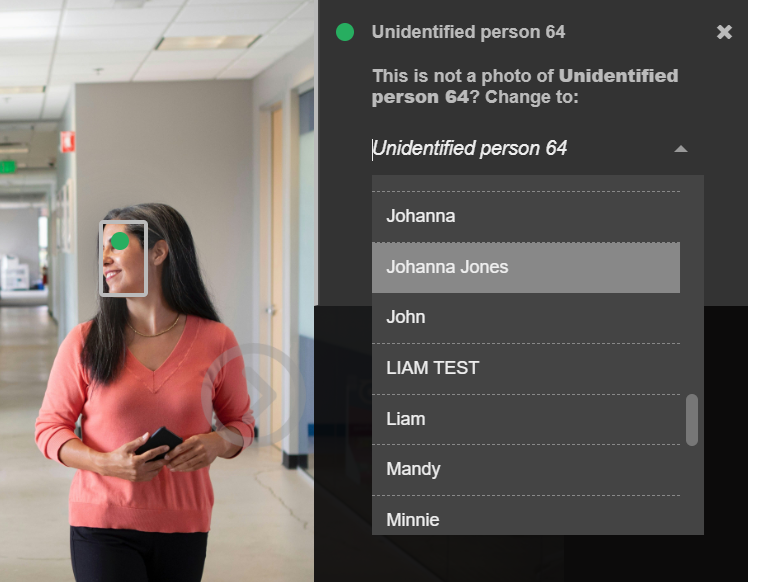
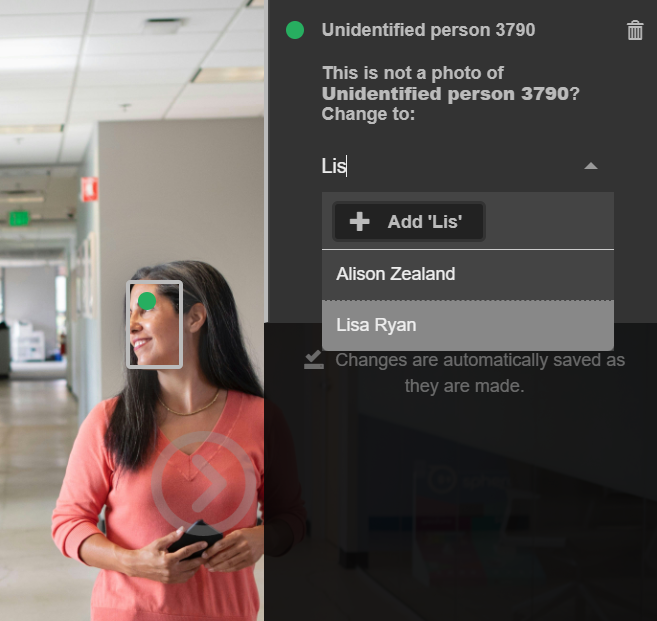
FR page improvements.

diff --git a/AI/facial-recognition.md b/AI/facial-recognition.md
@@ -13,6 +13,7 @@ nav_order: 20
 Starting with facial recognition in DBGallery couldn't be easier!  Start by uploading images with faces.  You'll then name each unique face just once to have it assigned across the collection and on subsequent uploads.  
 
 **How that works**
+
 Each unique face will be assigned default names such as 'Unidentified Person 1' or 'Unidentified Person 63', and so on.  When there are multiple faces of the same person, there may be many images with 'Unidentified Person 63' listed, for example.  Rename that one name to something real, like 'Johanna Jones', and all 'Unidentified Person 63' will be assigned to that name.  
 
 Any subsequent uploads of that person will be named 'Johanna Jones'.  In the search areas of the main gallery view, that name can immediately be searched for.
@@ -37,6 +38,9 @@ Press Close to see the result of 'Unidentified Person 63' having been renamed in
 
 Repeat Step 1 & 2 for all the names of the 'Unidentified Person" names.  In most cases, this needs to be done only once per person.  
 
+## During new uploads
+When new photos are added which have already names faces, they will automatically be tagged with their name.
+
 ## When the AI doesn't detect a known face
 There may be times when the AI doesn't recognize that person in subsequent uploads, due to lighting conditions, blurry photos, or the angle of the face.  When that happens, click on the face and select that name from the existing list of names. As this is done the AI will learn to recognise the person more accurately.
 <p style="margin-left: 5%;"><img style="border: 1px solid grey;" width="60%" src="/assets/Faces Dropdown List.png" alt="Faces Dropdown List"/></p>
@@ -50,13 +54,24 @@ To see the names of people when viewing a photo, roll the mouse cursor over the 
 ## Renaming a Person
 Rename a person by simply selecting the new name from the names dropdown in the Person tab, or by entering a completely new name for them in the Person tab.  This will rename the person in all photos.  When entering a completely new name, press the “Add” button and it will be added to the system, with the old name deleted from the system.
 
+Here Johanna Jones is being renamed to Carrissa King:
+<p style="margin-left: 5%;"><img style="border: 1px solid grey;" width="90%" src="/assets/Faces Rename a Person.png" alt="Facial Recognition: Renaming a person."/></p>
+
+
+## Naming a face for a single photo
+There may be times when a face needs to be named or renamed for a single photo.  To do this uncheck the 'Apply to all occurrances' checkbox before entering the new name. 
+
+<p style="margin-left: 5%;"><img style="border: 1px solid grey;" width="100%" src="/assets/Faces Name a single face.png" alt="Facia Recognition: Naming a face for a single photo"/></p>
+
 
 ## Deleting names (usually Unidentified Person or Unidentified Face)
 Often there are faces that aren't relevant in a photo.  This might be due to background people irrelevant to the photo or faces in photo frames on a wall.  Select that face either by clicking on it in the photo, or finding it in the People tab of image preview.  Then click the Trash icon to remove it.  That 'Unidentified Person' tag will be removed from the list and a rectangle will no longer appear when rolling the mouse cursor of that face.  A name delete is for just that one photo.
 
+Here the face on the laptop screen is being deleted after pressing the Trash button:
+<p style="margin-left: 5%;"><img style="border: 1px solid grey;" width="100%" src="/assets/Faces Delete a Person.png" alt="Facial Recognition: Deleting a person."/></p>
 
 
-## Adding the names data field to various DBGallery pages
+## Adding the Recognized Faces/People data field to various DBGallery pages
 By default, peoples names are listed only in the Full Data tab (just under the thumbnail) and the People tab in image preview. Peoples names can be added to various pages using Data Layout Setting under Tools | Data Layout Settings.  Below, the People data field is added to the info tab in the Shared view (the data which is seen by those images are shared to).  See Data Layout Settings for more on the specifics of how to place the People data field in the various pages within DBGallery.
 
 <p style="margin-left: 5%;"><img style="border: 1px solid grey;" width="100%" src="/assets/Data Settings for Facial Recognition.png" alt="Viewing face rectangles in image preview"/></p>
@@ -64,7 +79,11 @@ By default, peoples names are listed only in the Full Data tab (just under the t
 
 
 ## Q&A: 
-**Q:** Does FR work for video.
+**Q:** Why can't select multiple photos to edit faces/people?
+
+**A:**  This is because naming and renaming a face is global and automatically updated for all of the same face across all images in the system. This is better because if 10 images with a person existed and only 3 were selected to perform a multi-edit then 7 would not be updated.
+
+**Q:** Does facial recogntion work for video?
 
 **A:** No.  Not yet.  If this is important for your company, please let us know at support@dbgallery.com.  Your vote and comments would be a huge help in deciding on its priority within our dev team.
 
